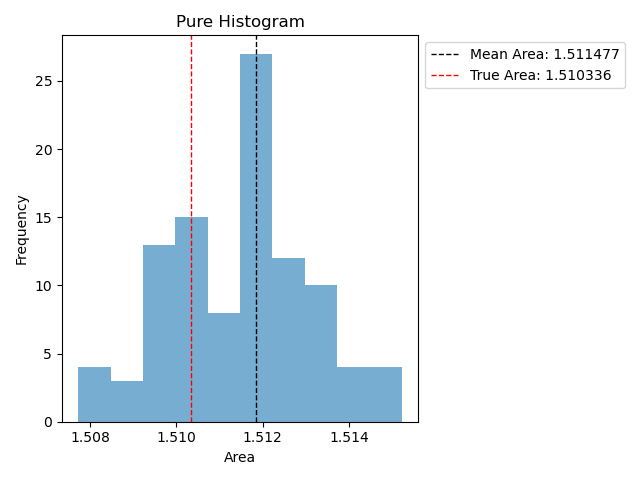
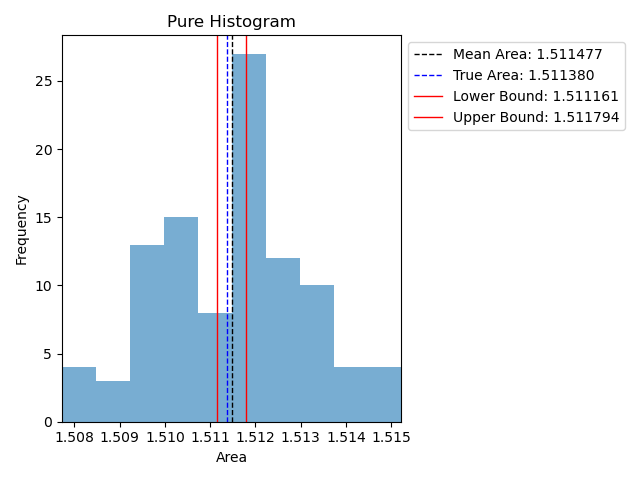
added the CI to the histogram

diff --git a/src/metrics.py b/src/metrics.py
@@ -79,9 +79,9 @@ def calculate_confidence_intervals(bins=100):
         mean = np.mean(areas)
         std_error = np.std(areas, ddof=1) / (np.sqrt(len(areas) - 1))
         margin_of_error = z_value * std_error
-        
-        lower_bound = np.round(mean - margin_of_error, 6)
-        upper_bound = np.round(mean + margin_of_error, 6)
+
+        lower_bound = mean - margin_of_error
+        upper_bound = mean + margin_of_error
         includes_true_area = lower_bound <= true_area <= upper_bound
         return {
             'mean': mean,
@@ -121,30 +121,35 @@ def plot_histograms():
     lhs_areas = load_area_data(f'{utils.STATISTIC_RESULT_DIR}/mandelbrotArea_LHS.txt')
     ortho_areas = load_area_data(f'{utils.STATISTIC_RESULT_DIR}/mandelbrotArea_Ortho.txt')
     true_value = load_area_data(f'{utils.RESULT_DIR}/trueArea.txt')[0]
-    
+    intervals = calculate_confidence_intervals().values()
 
     areas = [pure_areas, lhs_areas, ortho_areas]
     labels = ['Pure', 'LHS', 'Ortho']
     max_arr_len = max(len(area) for area in areas)
+    min_area = min(min(area) for area in areas)
+    max_area = max(max(area) for area in areas)
     bin_size = int(np.sqrt(max_arr_len))
 
-    for area, label in zip(areas, labels):
-        min_area = min(area)
-        max_area = max(area)
+    for area, label, inteval in zip(areas, labels, intervals):
+        mean_area = np.mean(area)
         bin_edges = np.linspace(min_area, max_area, bin_size + 1)
 
         plt.hist(area, bins=bin_edges, alpha=0.6)
-        
-        mean_area = np.mean(area)
-        closest_bin = np.digitize(mean_area, bin_edges) - 1
-        bin_center = (bin_edges[closest_bin] + bin_edges[closest_bin + 1]) / 2
+
+        lower_bound = inteval['lower_bound']
+        upper_bound = inteval['upper_bound']
 
         plt.xlabel('Area')
         plt.ylabel('Frequency')
-        plt.axvline(bin_center, color='k', linestyle='dashed', linewidth=1, label=f'Mean Area: {mean_area:.6f}')
-        plt.axvline(true_value, color='r', linestyle='dashed', linewidth=1, label=f'True Area: {true_value:.6f}')
+        plt.axvline(mean_area, color='k', linestyle='dashed', linewidth=1, label=f'Mean Area: {mean_area:.6f}')
+        plt.axvline(true_value, color='b', linestyle='dashed', linewidth=1, label=f'True Area: {true_value:.6f}')
+
+        plt.axvline(lower_bound, color='r', linewidth=1, label=f'Lower Bound: {lower_bound:.6f}')
+        plt.axvline(upper_bound, color='r', linewidth=1, label=f'Upper Bound: {upper_bound:.6f}')
+
         plt.title(f'{label} Histogram')
         plt.legend(loc='upper left', bbox_to_anchor=(1, 1))
+        plt.xlim(min_area, max_area)
         plt.tight_layout()
         plt.savefig(os.path.join(IMG_STATISTIC_DIR, f'histogram_{label}.png'))
         plt.close()
